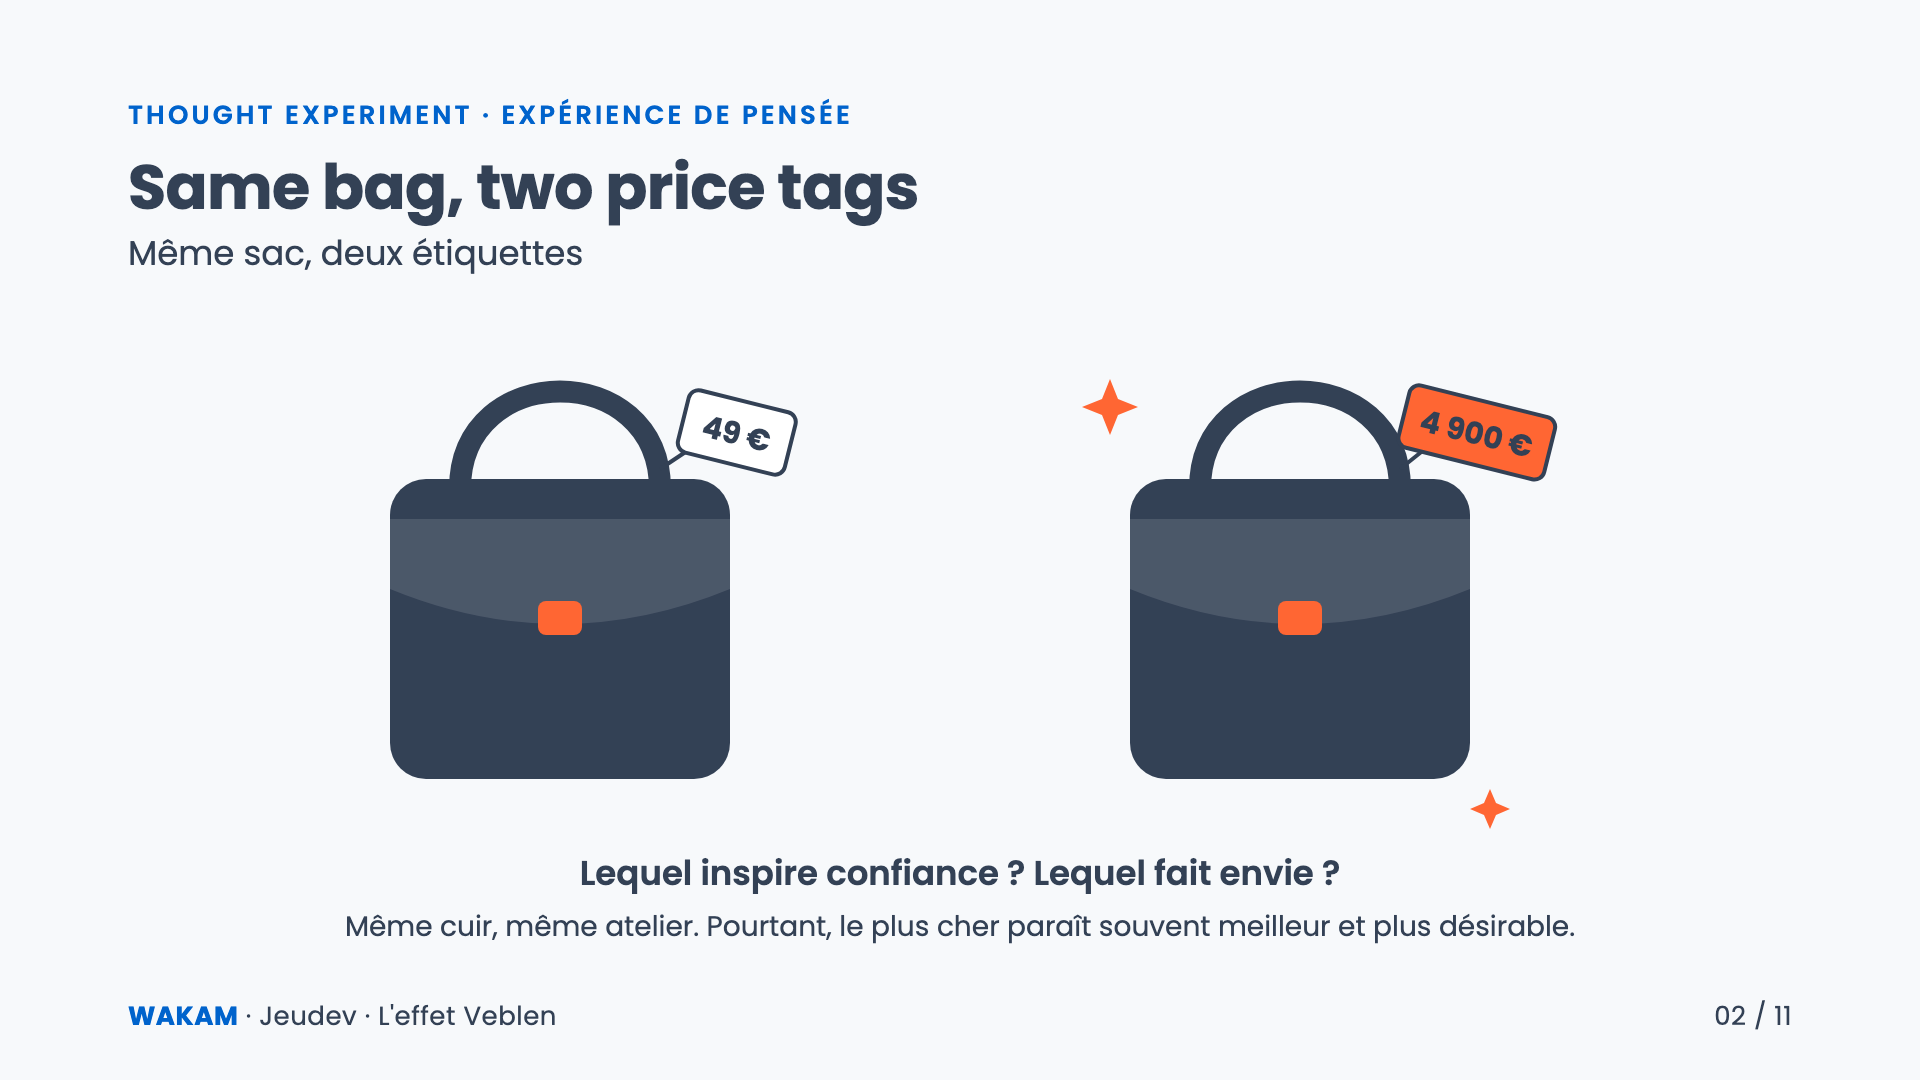
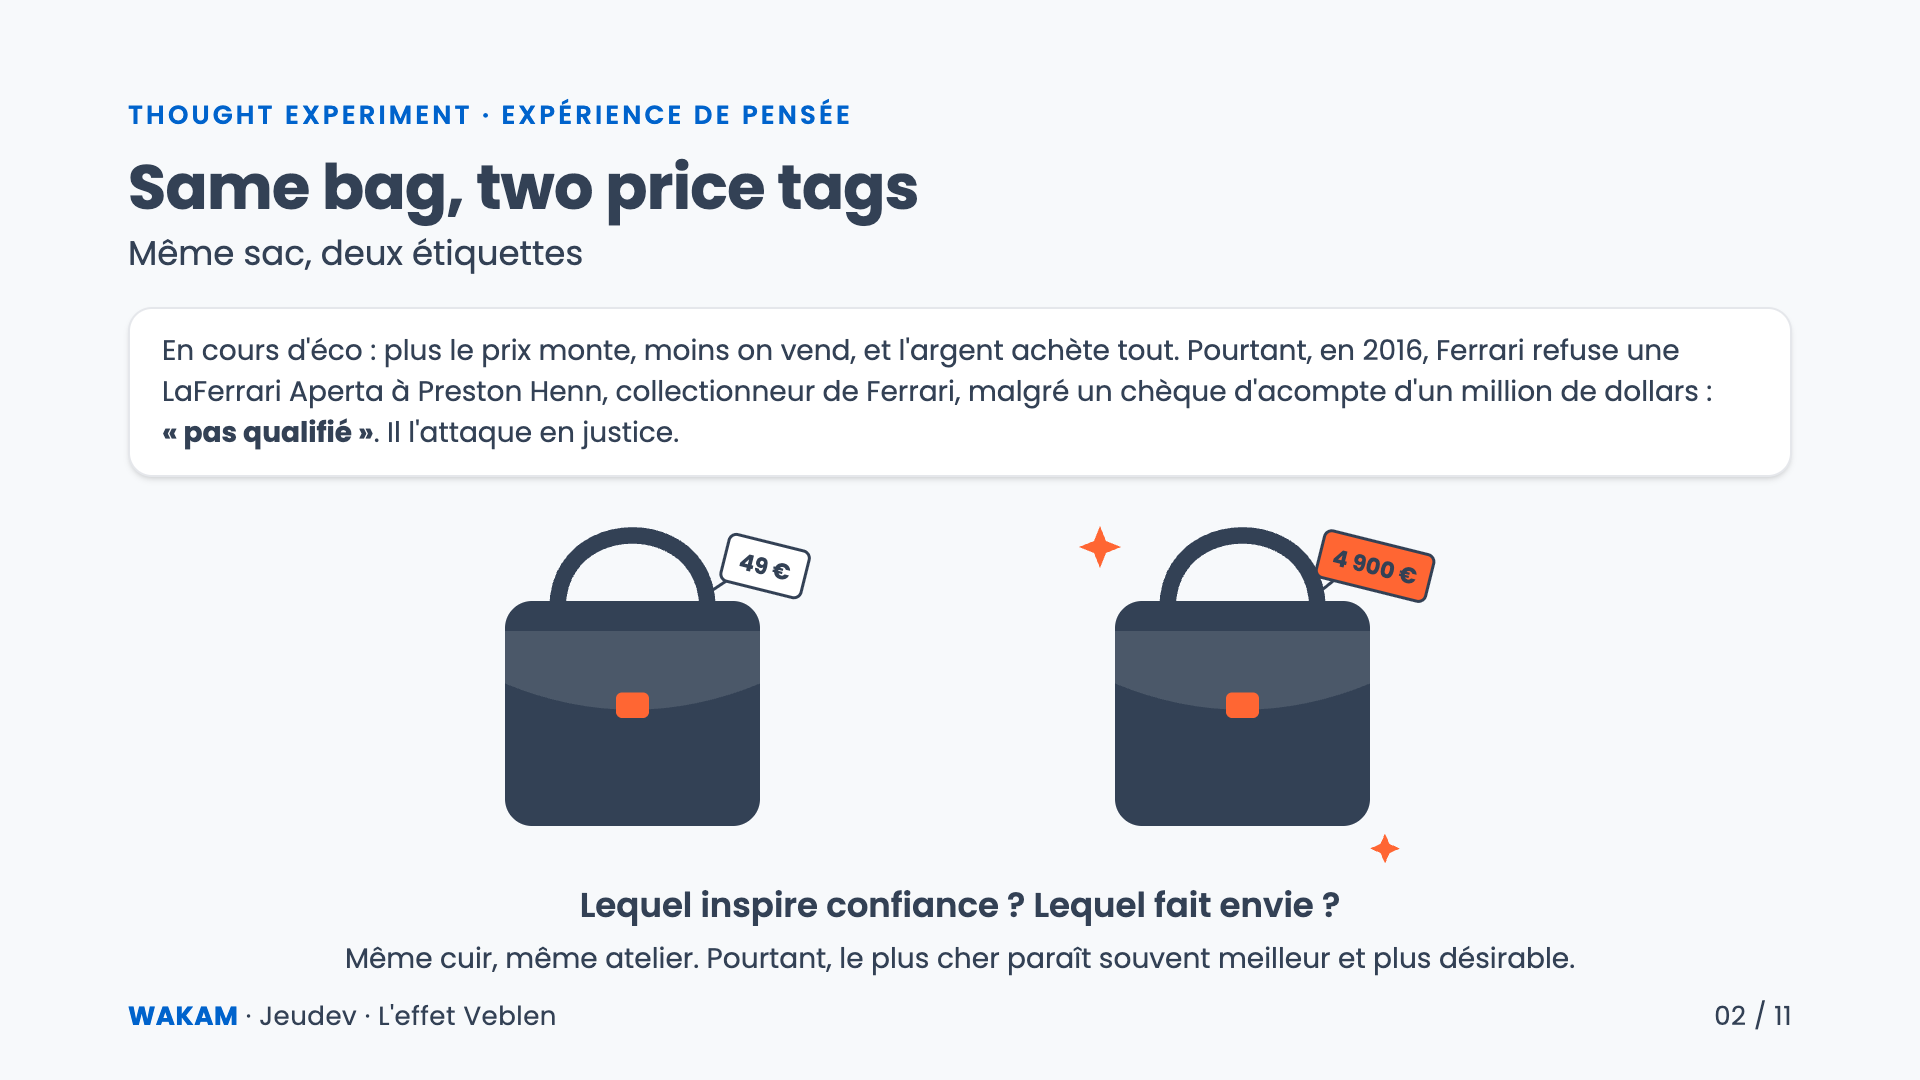
docs: open the Veblen deck with the Ferrari anecdote

diff --git a/docs/presentations/2026-11-19-veblen-effect/slides.html b/docs/presentations/2026-11-19-veblen-effect/slides.html
@@ -93,8 +93,9 @@ h1{font-size:62px;font-weight:700;line-height:1.12;margin:18px 0 6px;letter-spac
   <div class="kicker"><span lang="en">Thought experiment</span> · Expérience de pensée</div>
   <h1 lang="en">Same bag, two price tags</h1>
   <p class="fr">Même sac, deux étiquettes</p>
-  <div style="display:flex;justify-content:center;gap:220px;margin-top:40px">
-    <svg width="520" height="520" viewBox="0 0 520 520" role="img" aria-label="Un sac à main étiqueté 49 €">
+  <div class="card body" style="margin-top:28px;padding:22px 32px;font-size:28px">En cours d'éco : plus le prix monte, moins on vend, et l'argent achète tout. Pourtant, en 2016, Ferrari refuse une LaFerrari Aperta à Preston Henn, collectionneur de Ferrari, malgré un chèque d'acompte d'un million de dollars&nbsp;: <b style="white-space:nowrap">«&nbsp;pas qualifié&nbsp;»</b>. Il l'attaque en justice.</div>
+  <div style="display:flex;justify-content:center;gap:220px;margin-top:4px">
+    <svg width="390" height="390" viewBox="0 0 520 520" role="img" aria-label="Un sac à main étiqueté 49 €">
       <path d="M130 170 C130 40 330 40 330 170" stroke="#334155" stroke-width="22" fill="none"/>
       <rect x="60" y="160" width="340" height="300" rx="36" fill="#334155"/>
       <path d="M60 200 H400 V270 Q230 340 60 270Z" fill="#fff" opacity=".12"/>
@@ -102,7 +103,7 @@ h1{font-size:62px;font-weight:700;line-height:1.12;margin:18px 0 6px;letter-spac
       <line x1="330" y1="150" x2="390" y2="110" stroke="#334155" stroke-width="4"/>
       <g transform="rotate(14 400 120)"><rect x="350" y="80" width="110" height="64" rx="10" fill="#fff" stroke="#334155" stroke-width="4"/><text x="405" y="124" text-anchor="middle" class="tag" font-size="30" fill="#334155">49 €</text></g>
     </svg>
-    <svg width="520" height="520" viewBox="0 0 520 520" role="img" aria-label="Le même sac à main, étiqueté 4 900 €">
+    <svg width="390" height="390" viewBox="0 0 520 520" role="img" aria-label="Le même sac à main, étiqueté 4 900 €">
       <path d="M130 170 C130 40 330 40 330 170" stroke="#334155" stroke-width="22" fill="none"/>
       <rect x="60" y="160" width="340" height="300" rx="36" fill="#334155"/>
       <path d="M60 200 H400 V270 Q230 340 60 270Z" fill="#fff" opacity=".12"/>

diff --git a/docs/presentations/2026-11-19-veblen-effect/README.md b/docs/presentations/2026-11-19-veblen-effect/README.md
@@ -37,7 +37,9 @@ Each slide reads without the speaker: its title states the message, a sentence o
 
 2. Same bag, two price tags
 
-   ![Two identical handbags, one tagged 49 euros, the other 4,900 euros with sparkles.](02-hook.png)
+   ![An anecdote card above two identical handbags, one tagged 49 euros, the other 4,900 euros with sparkles.](02-hook.png)
+
+   En cours d'éco : plus le prix monte, moins on vend, et l'argent achète tout. Pourtant, en 2016, Ferrari refuse une LaFerrari Aperta à Preston Henn, collectionneur de Ferrari, malgré un chèque d'acompte d'un million de dollars : « pas qualifié ». Il l'attaque en justice.
 
    Même cuir, même atelier : pourtant le sac le plus cher paraît souvent meilleur et plus désirable.
 
@@ -97,16 +99,17 @@ Each slide reads without the speaker: its title states the message, a sentence o
 
 ## Sources
 
-| Claim                                                                                                         | Source                                                                                                                                                                                                                                     |
-| ------------------------------------------------------------------------------------------------------------- | ------------------------------------------------------------------------------------------------------------------------------------------------------------------------------------------------------------------------------------------ |
-| Starting point of the deck                                                                                    | [Effet de snobisme (Veblen)](https://biais-psychologiques.com/biais/effet-de-snobisme-veblen/), biais-psychologiques.com, 2026-05-10                                                                                                       |
-| Conspicuous consumption, 1899                                                                                 | Veblen, T. (1899). _The Theory of the Leisure Class_. Macmillan                                                                                                                                                                            |
-| Bandwagon, snob and Veblen effects                                                                            | Leibenstein, H. (1950). Bandwagon, Snob, and Veblen Effects in the Theory of Consumers' Demand. _The Quarterly Journal of Economics_, 64(2), 183–207                                                                                       |
-| Chanel 2.55 at $220 in 1955 and $11,300 in 2025; Rolex Daytona +14 % on 2025-01-01                            | [Finary, « SpaceX, OpenAI, Anthropic : le piège de la Bourse »](https://www.youtube.com/watch?v=cX-uKc8DkpY), YouTube, November 2026                                                                                                       |
-| Same wine rated better at a higher price                                                                      | Plassmann, H., O'Doherty, J., Shiv, B., & Rangel, A. (2008). Marketing actions can modulate neural representations of experienced pleasantness. _PNAS_, 105(3), 1050–1054 ([PMC2242704](https://pmc.ncbi.nlm.nih.gov/articles/PMC2242704)) |
-| Air Dior: ≈ 8,000 public pairs (13,000 in all), ≈ 5 M registrations, $2,000–2,200 retail, resale × 5 and more | [Hypebeast, 2020-07](https://hypebeast.com/2020/7/5-million-people-dior-air-jordan-1-og-raffle-chances-stats), [Sneaker News, 2020-07-03](https://sneakernews.com/2020/07/03/jordan-1-dior-registration-information)                       |
-| Burberry pulls its check from most products from 2006                                                         | [Burberry, Wikipedia](https://en.wikipedia.org/wiki/Burberry)                                                                                                                                                                              |
-| Insurance product governance                                                                                  | Directive (EU) 2016/97 (IDD, DDA in French), Delegated Regulation (EU) 2017/2358 (POG)                                                                                                                                                     |
+| Claim                                                                                                         | Source                                                                                                                                                                                                                                                    |
+| ------------------------------------------------------------------------------------------------------------- | --------------------------------------------------------------------------------------------------------------------------------------------------------------------------------------------------------------------------------------------------------- |
+| Starting point of the deck                                                                                    | [Effet de snobisme (Veblen)](https://biais-psychologiques.com/biais/effet-de-snobisme-veblen/), biais-psychologiques.com, 2026-05-10                                                                                                                      |
+| Ferrari refuses Preston Henn a LaFerrari Aperta despite a $1 M deposit cheque, 2016; he sues                  | [Jalopnik, 2016-08](https://jalopnik.com/pissed-off-racing-legend-sues-ferrari-for-denying-him-a-1784768746), [Motor Authority, 2016-08](https://www.motorauthority.com/news/1105354_famous-collector-sues-ferrari-after-denial-of-laferrari-convertible) |
+| Conspicuous consumption, 1899                                                                                 | Veblen, T. (1899). _The Theory of the Leisure Class_. Macmillan                                                                                                                                                                                           |
+| Bandwagon, snob and Veblen effects                                                                            | Leibenstein, H. (1950). Bandwagon, Snob, and Veblen Effects in the Theory of Consumers' Demand. _The Quarterly Journal of Economics_, 64(2), 183–207                                                                                                      |
+| Chanel 2.55 at $220 in 1955 and $11,300 in 2025; Rolex Daytona +14 % on 2025-01-01                            | [Finary, « SpaceX, OpenAI, Anthropic : le piège de la Bourse »](https://www.youtube.com/watch?v=cX-uKc8DkpY), YouTube, November 2026                                                                                                                      |
+| Same wine rated better at a higher price                                                                      | Plassmann, H., O'Doherty, J., Shiv, B., & Rangel, A. (2008). Marketing actions can modulate neural representations of experienced pleasantness. _PNAS_, 105(3), 1050–1054 ([PMC2242704](https://pmc.ncbi.nlm.nih.gov/articles/PMC2242704))                |
+| Air Dior: ≈ 8,000 public pairs (13,000 in all), ≈ 5 M registrations, $2,000–2,200 retail, resale × 5 and more | [Hypebeast, 2020-07](https://hypebeast.com/2020/7/5-million-people-dior-air-jordan-1-og-raffle-chances-stats), [Sneaker News, 2020-07-03](https://sneakernews.com/2020/07/03/jordan-1-dior-registration-information)                                      |
+| Burberry pulls its check from most products from 2006                                                         | [Burberry, Wikipedia](https://en.wikipedia.org/wiki/Burberry)                                                                                                                                                                                             |
+| Insurance product governance                                                                                  | Directive (EU) 2016/97 (IDD, DDA in French), Delegated Regulation (EU) 2017/2358 (POG)                                                                                                                                                                    |
 
 The source article uses "Veblen effect" and "snob effect" as synonyms; slide 11 follows Leibenstein, who separates them. Its notes 4 and 5 cite papers from 1996 and 2006 for events of 2020 and later: the Air Dior figures come from the press coverage of the release, not from those notes. The Chanel and Rolex figures come from the Finary video only; check them before quoting them outside this talk.
 
